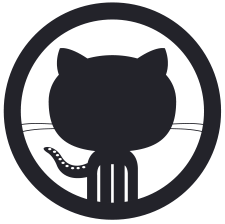
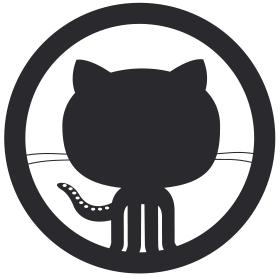
optimized hero image and new blacktocat in le footer

diff --git a/stylesheets/base.css b/stylesheets/base.css
@@ -84,7 +84,7 @@ a:visited {
 a.download {
   display: block;
   float: right;
-  margin: 11px 0 0 0;
+  margin: 10px 0 0 0;
   font-family: 'MenschBold';
   color: #2A2A2F;
   line-height: 1.05;
@@ -206,11 +206,10 @@ a.download {
     width: 140px;
     height: 140px;
     margin: 10px 0 0 14px;
-    background-image: url("../images/outlinetocat_@2X.png");
+    background-image: url("../images/blacktocat.png");
     background-position: center center;
     background-repeat: no-repeat;
-    background-size: 140px;
-    opacity: .29; }
+    background-size: 140px; }
   #footer .upper {
     min-height: 160px;
     overflow: hidden; }

diff --git a/stylesheets/base.scss b/stylesheets/base.scss
@@ -107,7 +107,7 @@ a:visited {
 a.download {
   display: block;
   float: right;
-  margin: 11px 0 0 0;
+  margin: 10px 0 0 0;
   font-family: 'MenschBold';
    color: #2A2A2F;
   line-height: 1.05;
@@ -272,11 +272,11 @@ a.download {
     width: 140px;
     height: 140px;
     margin: 10px 0 0 14px;
-    background-image: url('../images/outlinetocat_@2X.png');
+    background-image: url('../images/blacktocat.png');
     background-position: center center;
     background-repeat: no-repeat;
     background-size: 140px;
-    opacity: .29;
+ 
   }
 
   .upper {
